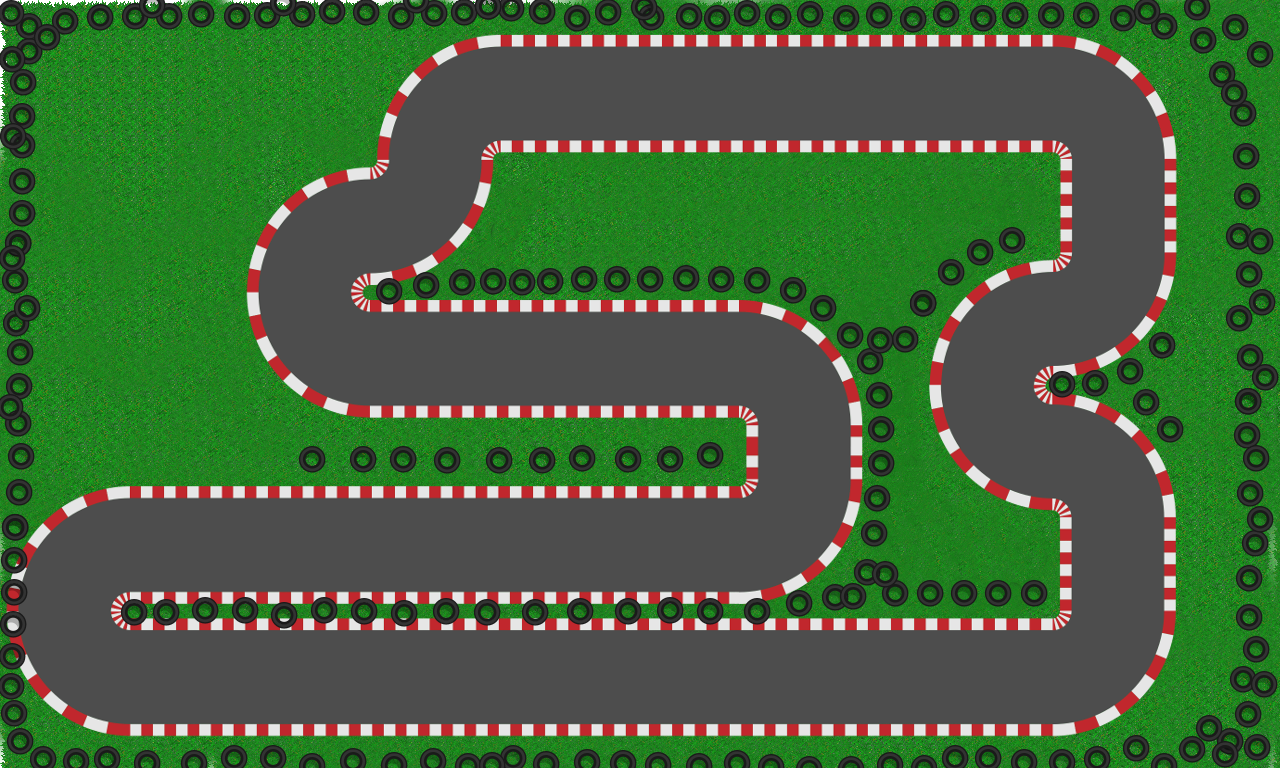
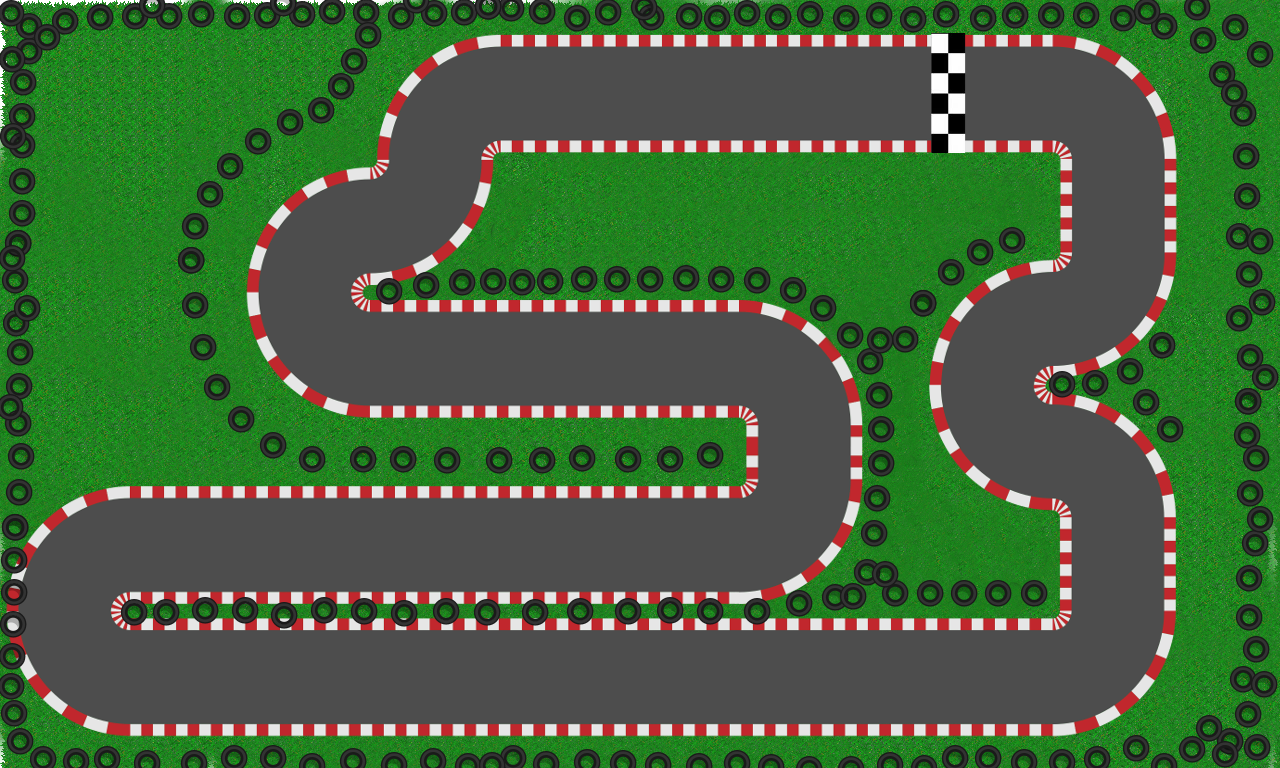
modifs, j'en rajoute sous peu

Changed region(s): [[0.125, 0.0312, 0.3125, 0.4062], [0.7188, 0.0312, 0.7812, 0.2188], [0.125, 0.4375, 0.25, 0.5938]]

diff --git a/SFML_Vroom/main.cpp b/SFML_Vroom/main.cpp
@@ -80,14 +80,14 @@ int main()
 	checkPoint1.setPosition(555, 605);
 	checkPoint1.setSize(Vector2f(20, 130));
 	checkPoint1.setFillColor(Color::Transparent);
-	checkPoint1.setOutlineThickness(2);
-	checkPoint1.setOutlineColor(Color::White);
+	//checkPoint1.setOutlineThickness(2);
+	//checkPoint1.setOutlineColor(Color::White);
 
-	ligneArivee.setPosition(555, 15);
-	ligneArivee.setSize(Vector2f(20, 160));
+	ligneArivee.setPosition(940, 15);
+	ligneArivee.setSize(Vector2f(20, 280));
 	ligneArivee.setFillColor(Color::Transparent);
-	ligneArivee.setOutlineThickness(2);
-	ligneArivee.setOutlineColor(Color::White);
+	//ligneArivee.setOutlineThickness(2);
+	//ligneArivee.setOutlineColor(Color::White);
 
 	//Change les couleures de chaque joueurs
 	joueurs[0].setCouleur(0, 255, 0);
@@ -156,7 +156,7 @@ int main()
 			sprJoueur[i].setColor(Color(joueurs[i].getRed(), joueurs[i].getGreen(), joueurs[i].getBlue()));
 
 			//Initialisation automobile
-			sprJoueur[i].setPosition(100 + (100 * i), 100);
+			sprJoueur[i].setPosition(900 + (100 * i), 100 );
 			sprJoueur[i].rotate(joueurs[i].getDegreAuto());
 		}
 
@@ -201,7 +201,7 @@ int main()
 							{
 								joueurs[i].setMaxSpeed(true);
 								pisteCourse.getCercle(j).getCercle().setOutlineColor(Color::Red);
-								tour++;
+							
 							}
 						}
 						if (pisteCourse.getCercle(j).getqHautDroite())
@@ -210,7 +210,7 @@ int main()
 							{
 								joueurs[i].setMaxSpeed(true);
 								pisteCourse.getCercle(j).getCercle().setOutlineColor(Color::Red);
-								tour++;
+								
 							}
 						}
 						if (pisteCourse.getCercle(j).getqBasGauche())
@@ -219,7 +219,7 @@ int main()
 							{
 								joueurs[i].setMaxSpeed(true);
 								pisteCourse.getCercle(j).getCercle().setOutlineColor(Color::Red);
-								tour++;
+								
 							}
 						}
 						if (pisteCourse.getCercle(j).getqHautGauche())
@@ -228,7 +228,7 @@ int main()
 							{
 								joueurs[i].setMaxSpeed(true);
 								pisteCourse.getCercle(j).getCercle().setOutlineColor(Color::Red);
-								tour++;
+								
 							}
 						}
 					}
@@ -246,7 +246,7 @@ int main()
 				{
 					if (sprJoueur[i].getGlobalBounds().intersects(pisteCourse.getRectangle(j).getGlobalBounds()))
 					{
-						tour++;
+						
 						joueurs[i].setMaxSpeed(300);
 					}
 				}

diff --git a/SFML_Vroom/piste.h b/SFML_Vroom/piste.h
@@ -195,8 +195,8 @@ void piste::chargerPiste(ifstream& entree)
 		_cercles[i].cercle.setPosition(x, y);
 		_cercles[i].cercle.setRadius(rad);
 		_cercles[i].cercle.setFillColor(Color::Transparent);
-		/*_cercles[i].cercle.setOutlineColor(Color::White);
-		_cercles[i].cercle.setOutlineThickness(2);*/
+		_cercles[i].cercle.setOutlineColor(Color::White);
+		_cercles[i].cercle.setOutlineThickness(2);
 
 	}
 

diff --git a/SFML_Vroom/auto.h b/SFML_Vroom/auto.h
@@ -46,6 +46,8 @@ private:
 	int _autoRGB[3];
 #pragma endregion
 public:
+	bool checkpoint = false;
+	int laps = 0;
 
 #pragma region "Fonctions"
 
